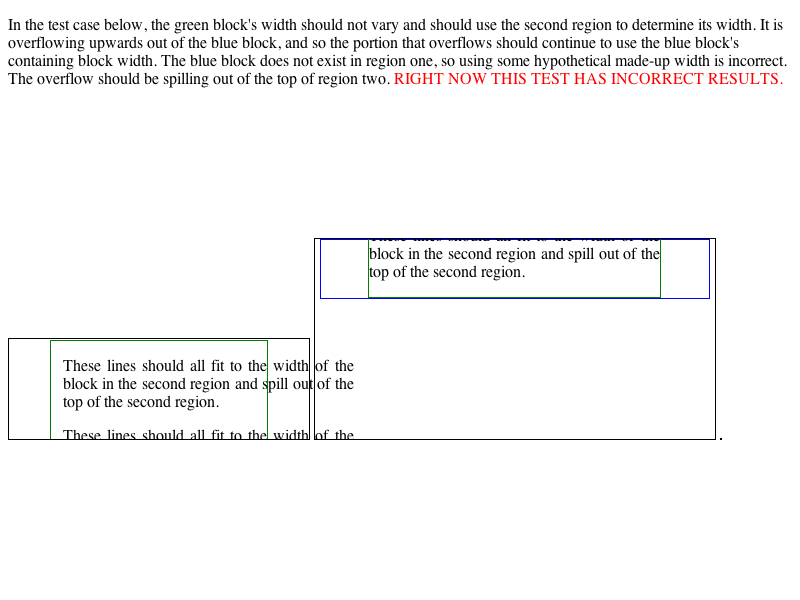
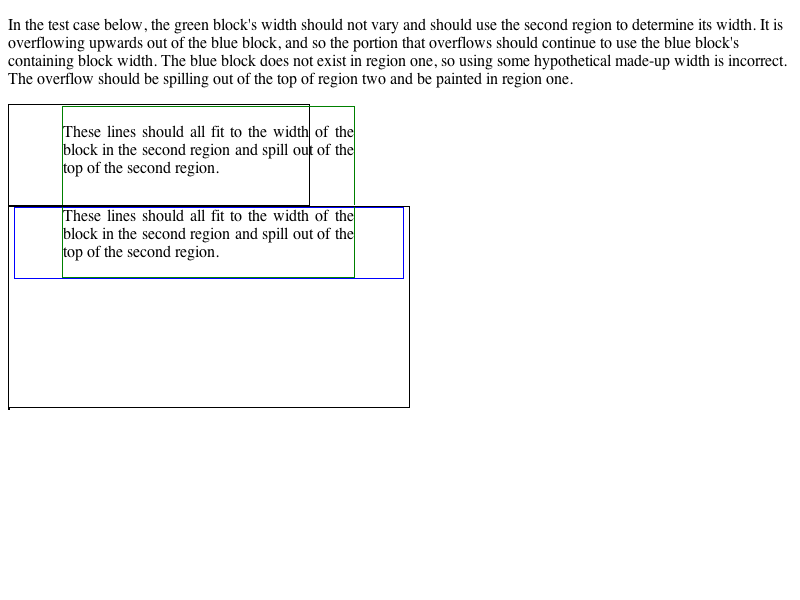
https://bugs.webkit.org/show_bug.cgi?id=69658
[CSS3 Regions] Box painting of overflow into regions is incorrect because children were being
incorrectly clamped to their containing block region ranges. Change the clamping model so that
renderRegionForLine no longer does it. A block will now truly have an accurate range across
all the regions that paint it. Instead, do the clamping at the time a child box asks the containing
block for its information. At that time clamp to the start and end regions, so that we never ask
a containing block for info about a region that it doesn't exist in.

Reviewed by Anders Carlsson.

Source/WebCore: 

Added new test in fast/regions and updated an old result to be correct.

* rendering/RenderBlock.cpp:
(WebCore::RenderBlock::pageLogicalHeightForOffset):
(WebCore::RenderBlock::pageRemainingLogicalHeightForOffset):
(WebCore::RenderBlock::regionAtBlockOffset):
(WebCore::RenderBlock::clampToStartAndEndRegions):
* rendering/RenderBlock.h:
* rendering/RenderBox.cpp:
(WebCore::RenderBox::borderBoxRectInRegion):
(WebCore::RenderBox::containingBlockLogicalWidthForContentInRegion):
(WebCore::RenderBox::renderBoxRegionInfo):
* rendering/RenderFlowThread.cpp:
(WebCore::RenderFlowThread::renderRegionForLine):
(WebCore::RenderFlowThread::regionLogicalWidthForLine):
(WebCore::RenderFlowThread::regionLogicalHeightForLine):
(WebCore::RenderFlowThread::regionRemainingLogicalHeightForLine):
(WebCore::RenderFlowThread::mapFromFlowToRegion):
(WebCore::RenderFlowThread::setRegionRangeForBox):
[…]

diff --git a/fast/regions/bottom-overflow-out-of-first-region.html b/fast/regions/bottom-overflow-out-of-first-region.html
@@ -1,0 +1,62 @@
+<!doctype html>
+
+ <style>
+    #content {
+        -webkit-flow: "flow1";
+        text-align: justify;
+        padding: 5px;
+    }
+    
+    #first-box {
+        border: 1px solid blue;
+        height:188px;
+    }
+    
+    #second-box {
+        margin:auto;
+        border: 1px solid green;
+        width:75%
+    }
+    
+    #region1, #region2, #region3 {
+        border: 1px solid black;
+        content: -webkit-from-flow("flow1");
+    }
+
+    #region1 {
+        width: 400px;
+        height: 200px;
+    }
+    
+    #region2 {
+        width: 300px;
+        height: 100px;
+    }
+
+</style>
+
+<body>
+
+<p>In the test case below, the green block's width should not vary and should use the first region to determine its width.
+It is overflowing downwards out of the blue block, and so the portion that overflows should continue to use the blue block's
+containing block width. The blue block does not exist in region two, so using some hypothetical made-up width is incorrect.
+The overflow should be spilling out of the top of region one and be painted in region two. 
+
+<div id="content">
+    <div id="first-box">
+        <div id="second-box">
+            <p>These lines should all fit to the width of the block in the first region and spill out of the bottom of the first
+            region.</P>
+             <p>These lines should all fit to the width of the block in the first region and spill out of the bottom of the first
+            region.</P>
+             <p>These lines should all fit to the width of the block in the first region and spill out of the bottom of the first
+            region.</P>
+        </div>
+    </div>
+</div>
+
+<div id="container">
+    <div id="region1"></div>
+    <div id="region2"></div>
+    <div id="region3"></div>
+</div>

diff --git a/fast/regions/top-overflow-out-of-second-region.html b/fast/regions/top-overflow-out-of-second-region.html
@@ -21,7 +21,6 @@
     #region1, #region2, #region3 {
         border: 1px solid black;
         content: -webkit-from-flow("flow1");
-        display:inline-block
     }
 
     #region1 {
@@ -34,8 +33,6 @@
         height: 200px;
     }
 
-    #container { margin-top:150px }
-
 </style>
 
 <body>
@@ -43,7 +40,7 @@
 <p>In the test case below, the green block's width should not vary and should use the second region to determine its width.
 It is overflowing upwards out of the blue block, and so the portion that overflows should continue to use the blue block's
 containing block width. The blue block does not exist in region one, so using some hypothetical made-up width is incorrect.
-The overflow should be spilling out of the top of region two. <font color=red>RIGHT NOW THIS TEST HAS INCORRECT RESULTS.</font></p>
+The overflow should be spilling out of the top of region two and be painted in region one. 
 
 <div id="content">
     <div id="first-box">
